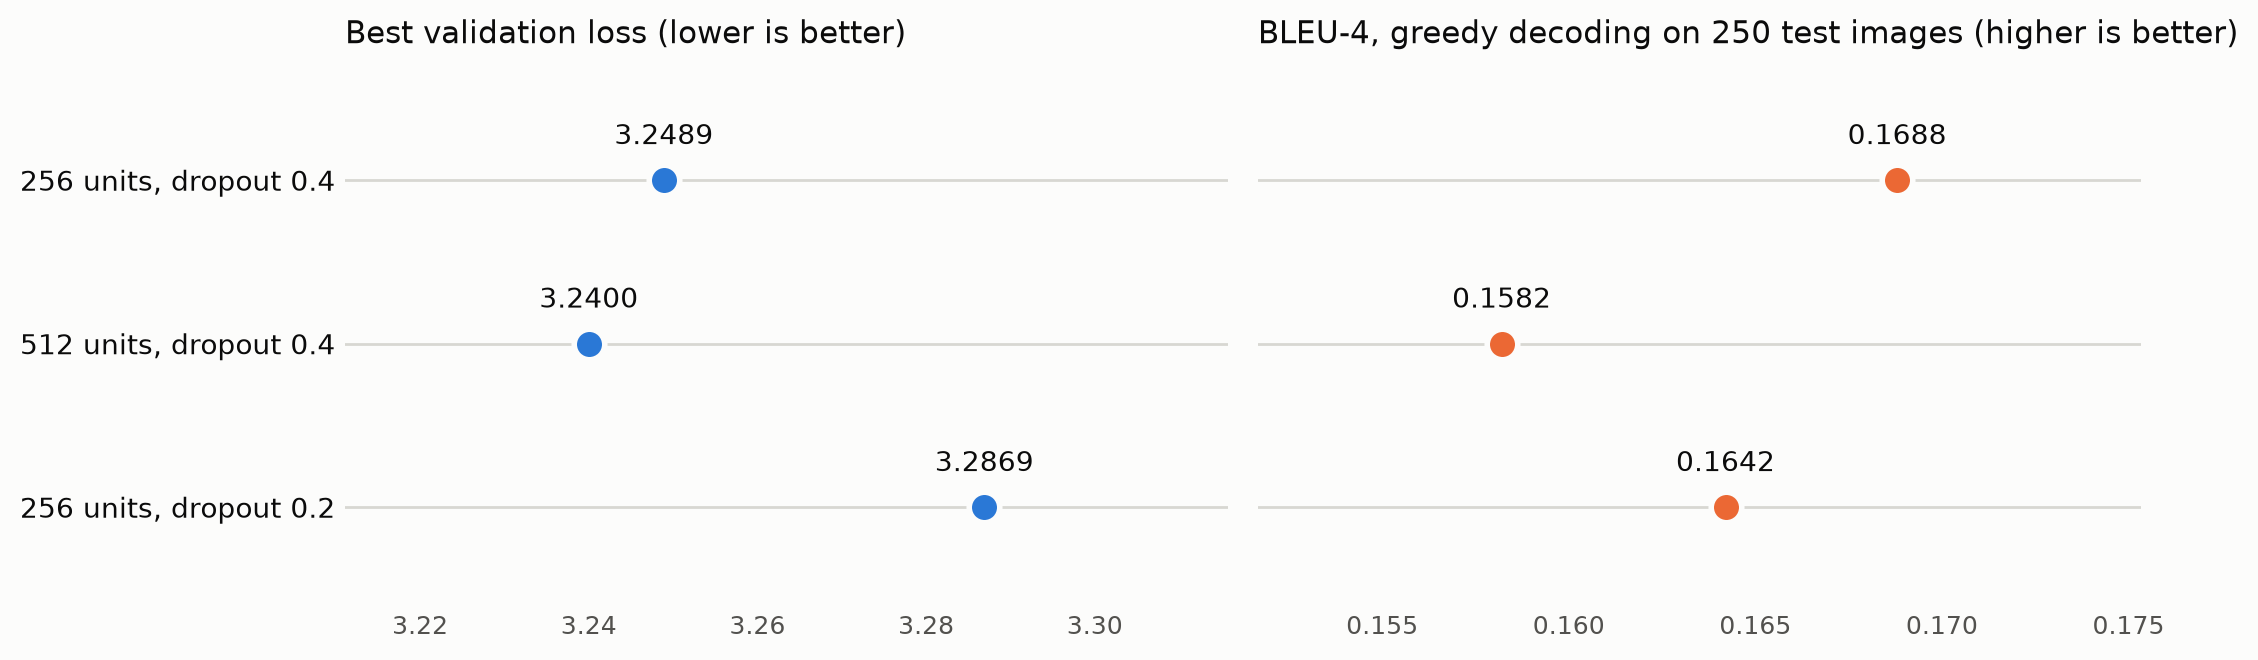
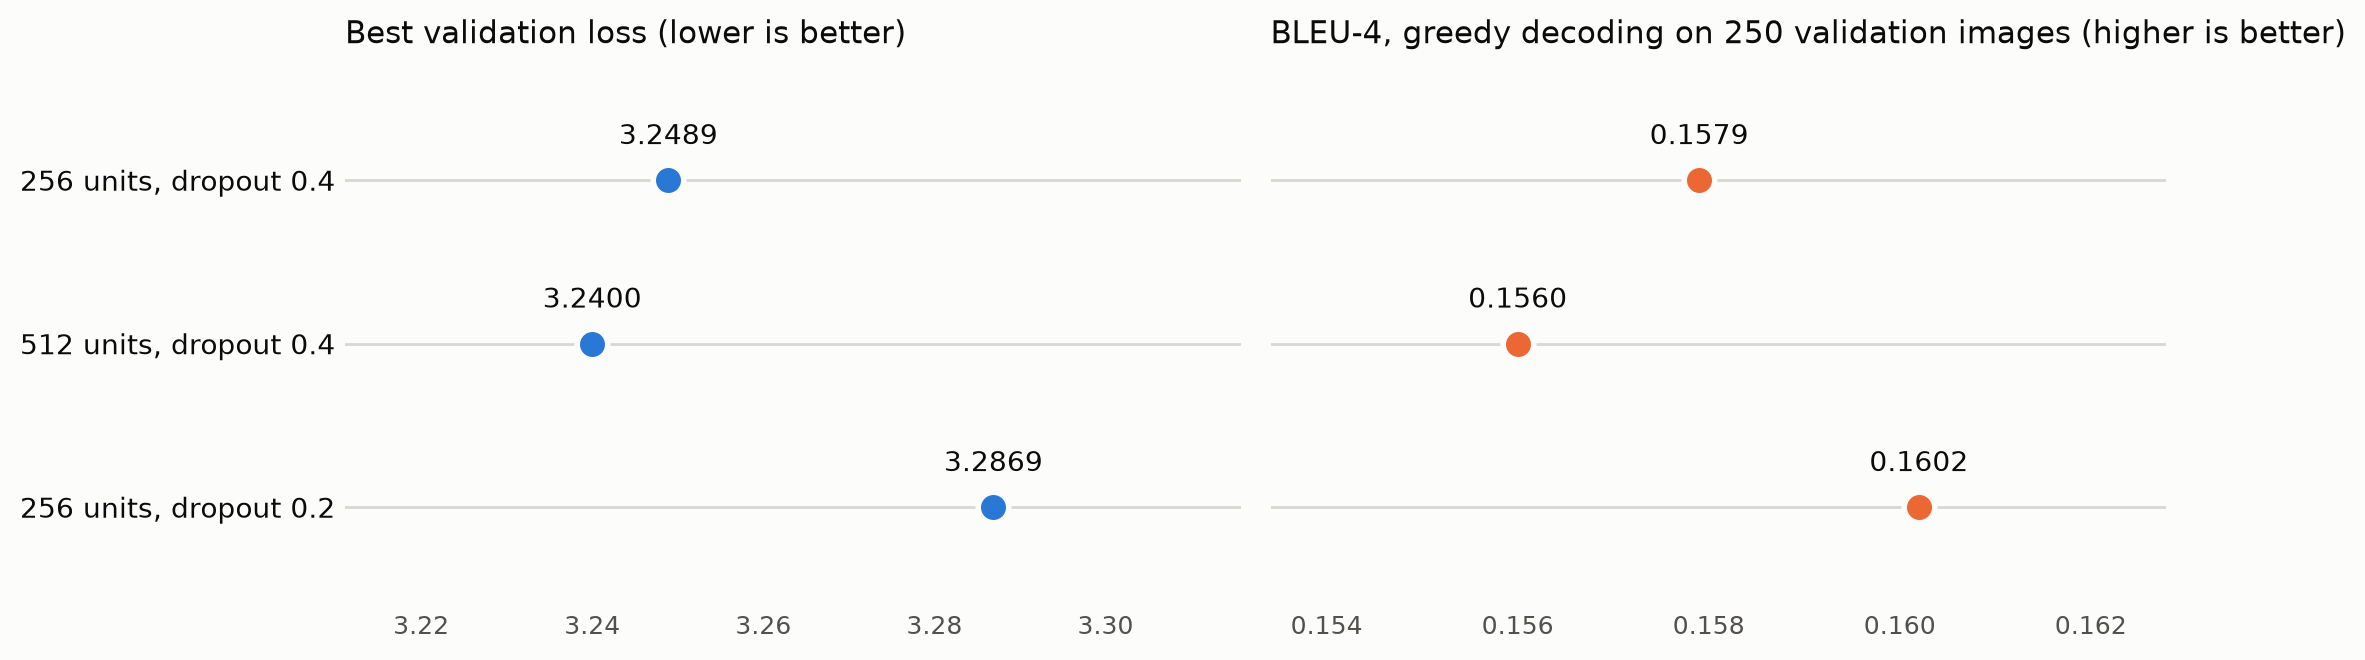
fixed hyperparam to use validation set

diff --git a/hyperparameter_tuning.py b/hyperparameter_tuning.py
@@ -13,10 +13,11 @@ tokenizer fitted on training captions only, Adam, early stopping on validation l
 patience 3, and a maximum of 20 epochs.
 
 Each arm records its best validation loss, the epoch that produced it, wall-clock training
-time, and a BLEU score measured with greedy decoding on a fixed subset of the test set.
-A subset is used because full greedy+beam decoding over all 810 test images takes about
-42 minutes; the arms only need to be ranked against each other, and the headline BLEU
-figures in the report still come from the full-test-set evaluation in the notebook.
+time, and a BLEU score measured with greedy decoding on a fixed subset of the VALIDATION
+set. Validation, not test: these scores are used to choose a configuration, and selecting
+on the test set would bias it. The test set is decoded once, in the notebook, after every
+decision about the model has been made. A subset is used because decoding is slow on CPU
+and the arms only need to be ranked against each other.
 
 Results are written to hyperparameter_results.csv and hyperparameter_results.png.
 
@@ -44,7 +45,7 @@ from make_tuning_figure import write_figure
 
 BASE_DIR = os.path.dirname(os.path.abspath(__file__))
 
-# How many held-out images to decode when scoring each arm. 250 is enough to separate
+# How many validation images to decode when scoring each arm. 250 is enough to separate
 # the arms while keeping each evaluation to roughly four minutes on CPU.
 BLEU_SUBSET = 250
 
@@ -227,7 +228,10 @@ def main():
 
     steps = ceil(len(train) / BATCH_SIZE)
     val_steps = ceil(len(val) / BATCH_SIZE)
-    bleu_ids = test[:BLEU_SUBSET]
+
+    # Scored on validation, never test: these scores pick a configuration, and choosing
+    # on the test set would make the final test figures optimistic.
+    bleu_ids = val[:BLEU_SUBSET]
 
     rows = []
 
@@ -260,7 +264,7 @@ def main():
         best_epoch = int(np.argmin(val_losses)) + 1
         best_val_loss = float(min(val_losses))
 
-        print(f"scoring BLEU on {len(bleu_ids)} held-out images...", flush=True)
+        print(f"scoring BLEU on {len(bleu_ids)} validation images...", flush=True)
         bleu_started = time.time()
         scores = score_bleu(model, bleu_ids, mapping, features, tokenizer, max_length)
         bleu_seconds = time.time() - bleu_started

diff --git a/README.md b/README.md
@@ -126,9 +126,13 @@ fixed:
 | C | 256 | 0.2 |
 
 Each arm trains to early stopping and is then scored with greedy decoding on a fixed
-250 image slice of the test set. The subset keeps each evaluation to around 3 minutes,
-which is enough to rank the arms against each other. The headline BLEU figures in section 1
-are the separate full test set evaluation from the notebook, not these.
+250 image slice of the **validation** set. Validation rather than test, because these
+scores choose a configuration, and selecting on the test set would make the final test
+figures optimistic. The test set is decoded once, in the notebook, after every decision
+about the model has been made, and that is where the headline BLEU figures in section 1
+come from.
+
+`rescore_arms_on_validation.py` re-scores saved arm checkpoints without retraining.
 
 Writes `hyperparameter_results.csv` and `hyperparameter_results.png`. Results are saved
 after every arm, so an interrupted run still leaves usable output for the arms that
